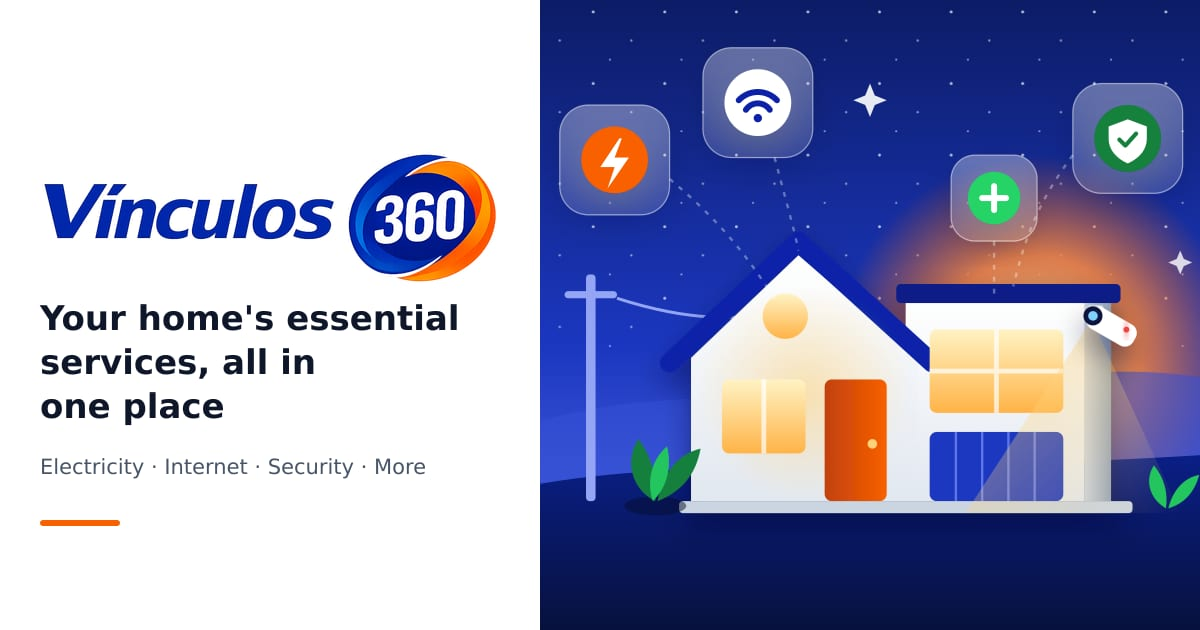
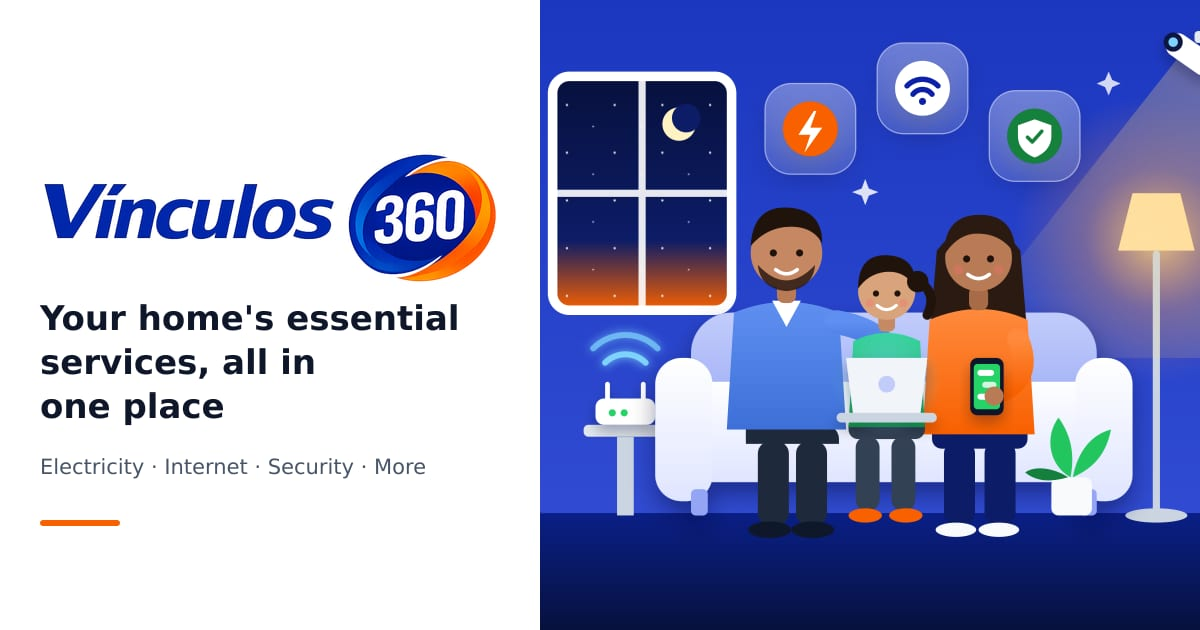
Use illustrated family scene in the hero
- New original illustration: family on the sofa at home in the evening,
  with lamp (electricity), router (internet), wall camera (security) and
  floating service tiles; replaces the house-only illustration
- Open Graph images (ES/EN) regenerated with the family scene

Claude-Session: https://claude.ai/code/session_01Xo8zFYqW5rH4yXum4EnHnt

diff --git a/src/i18n.js b/src/i18n.js
@@ -36,7 +36,7 @@ const es = {
     text: "Te ayudamos a comparar opciones de electricidad, internet, seguridad y otros servicios esenciales para encontrar lo que mejor se adapte a las necesidades de tu hogar.",
     primary: "Ver mis opciones",
     whatsapp: "Hablar por WhatsApp",
-    imageAlt: "Ilustración de un hogar moderno conectado a electricidad, internet, seguridad y otros servicios",
+    imageAlt: "Ilustración de una familia en su sala, conectada a electricidad, internet, seguridad y otros servicios",
     chatStatus: "En línea",
     chatMessage: "¡Hola! Te ayudamos a comparar tus opciones.",
   },
@@ -192,7 +192,7 @@ const en = {
     text: "We help you compare electricity, internet, security and other essential service options to find what best fits your home's needs.",
     primary: "See my options",
     whatsapp: "Chat on WhatsApp",
-    imageAlt: "Illustration of a modern home connected to electricity, internet, security and other services",
+    imageAlt: "Illustration of a family in their living room, connected to electricity, internet, security and other services",
     chatStatus: "Online",
     chatMessage: "Hi! We'll help you compare your options.",
   },

diff --git a/index.html b/index.html
@@ -39,7 +39,7 @@
     <meta name="twitter:card" content="summary_large_image" />
 
     <!-- Precarga de la imagen principal (LCP) -->
-    <link rel="preload" as="image" href="/img/ilustraciones/hero-hogar.svg" fetchpriority="high" />
+    <link rel="preload" as="image" href="/img/ilustraciones/hero-familia.svg" fetchpriority="high" />
 
     <script type="application/ld+json">
       {

diff --git a/en/index.html b/en/index.html
@@ -39,7 +39,7 @@
     <meta name="twitter:card" content="summary_large_image" />
 
     <!-- Preload hero image (LCP) -->
-    <link rel="preload" as="image" href="/img/ilustraciones/hero-hogar.svg" fetchpriority="high" />
+    <link rel="preload" as="image" href="/img/ilustraciones/hero-familia.svg" fetchpriority="high" />
 
     <script type="application/ld+json">
       {

diff --git a/src/components/Hero.jsx b/src/components/Hero.jsx
@@ -59,7 +59,7 @@ export default function Hero() {
           </div>
 
           <img
-            src="/img/ilustraciones/hero-hogar.svg"
+            src="/img/ilustraciones/hero-familia.svg"
             alt={t.hero.imageAlt}
             width="600"
             height="528"
